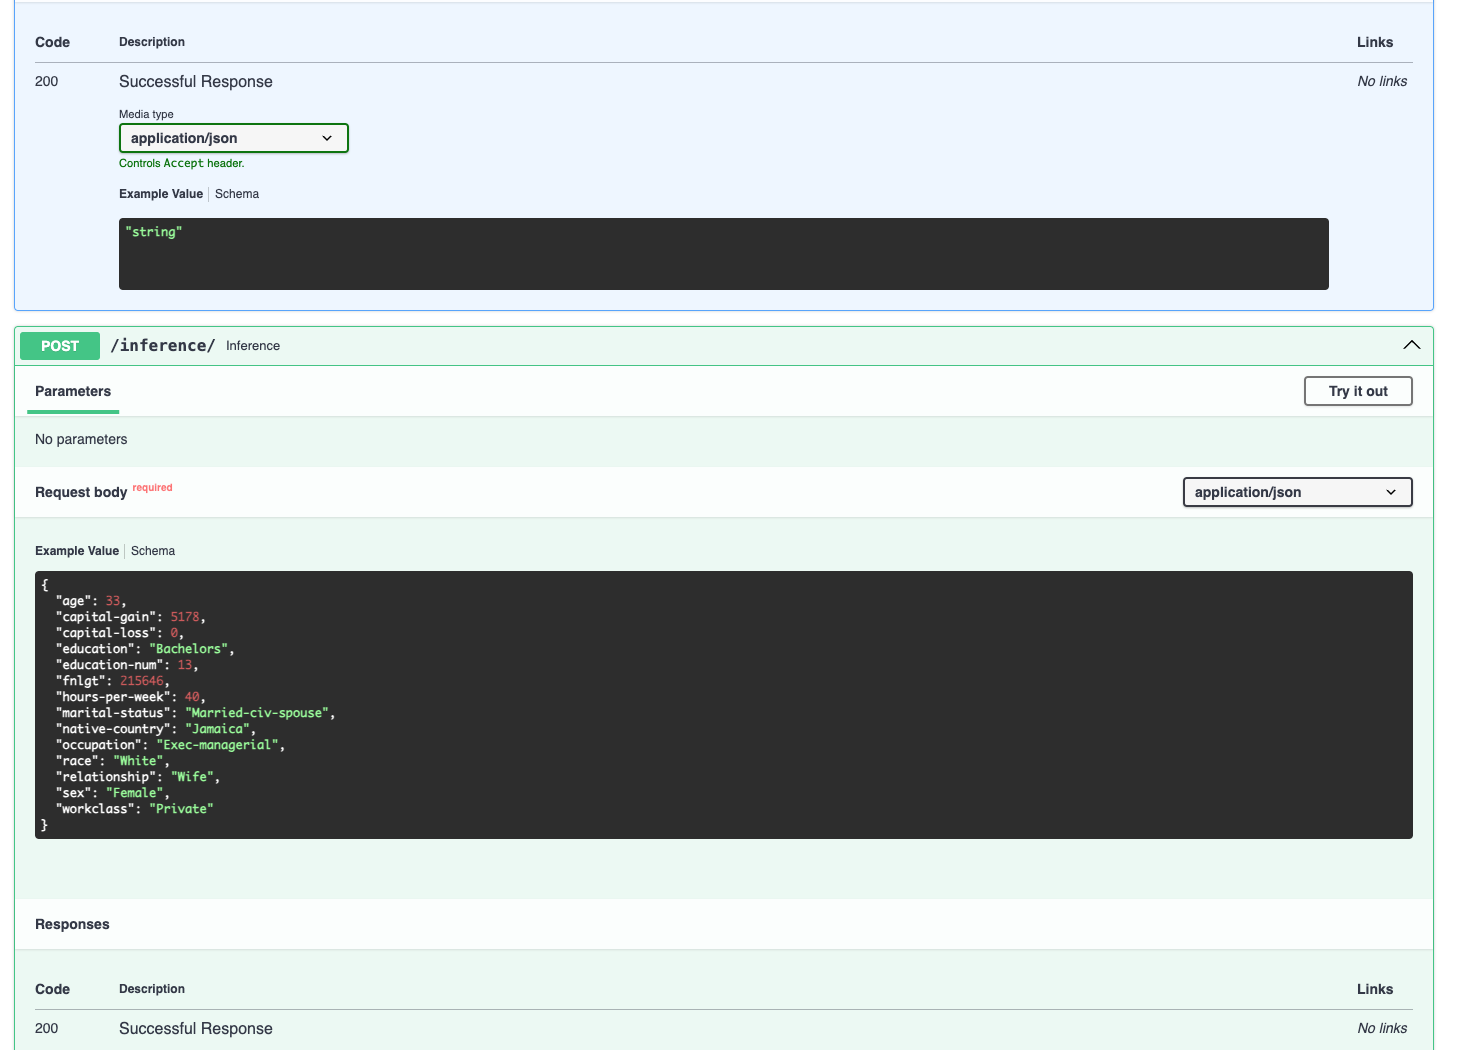
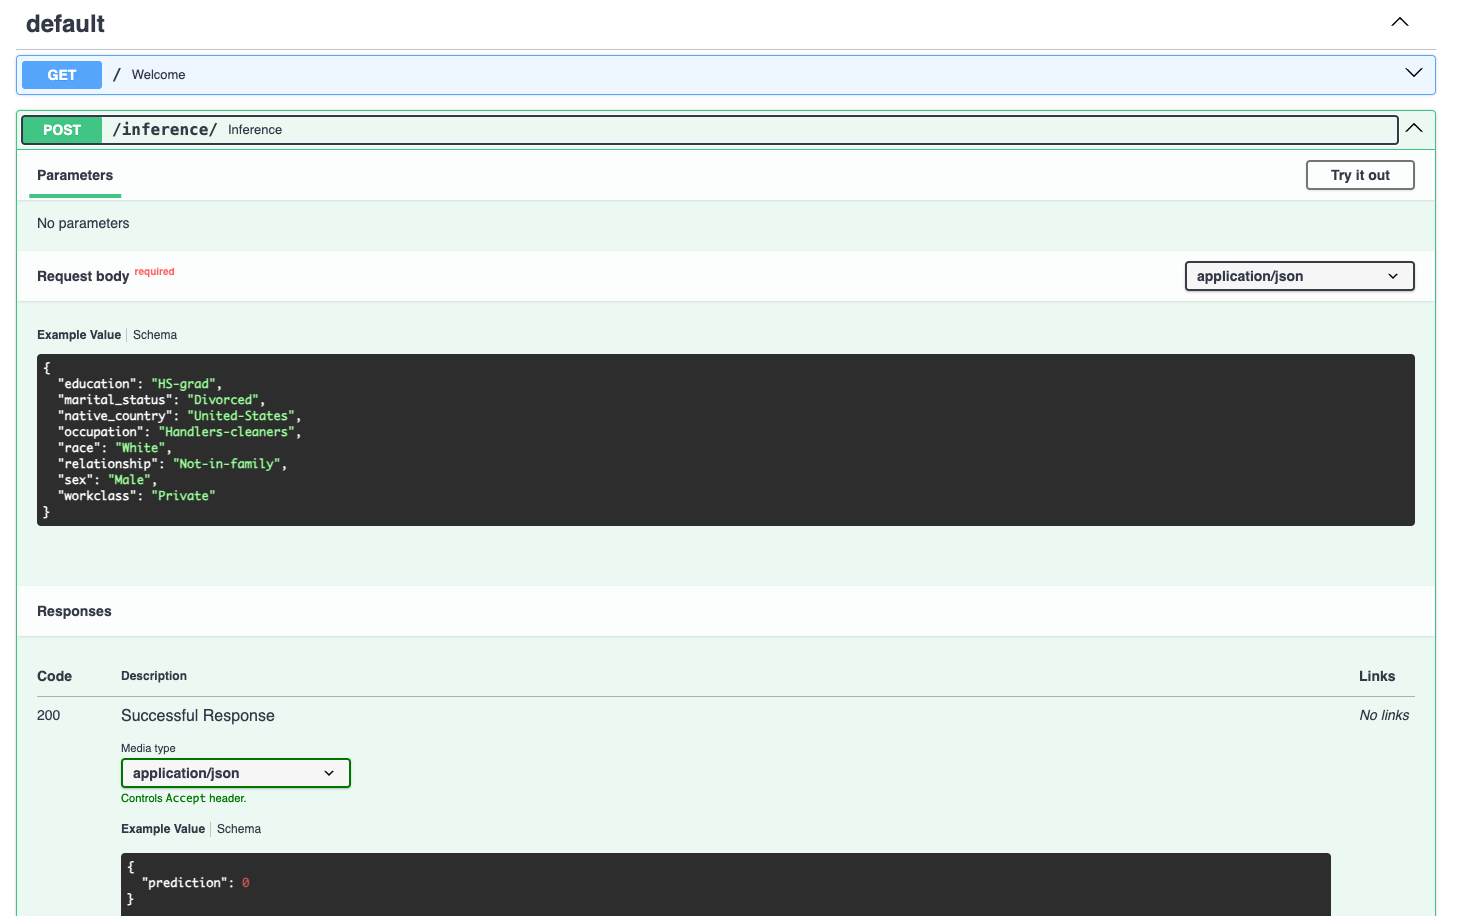
add screenshots and API test

diff --git a/tests/tests.py b/tests/tests.py
@@ -121,8 +121,8 @@ class PredictionResponse(BaseModel):
 
 
 def test_POST_inference_endpoint_successful():
-    # Define test input data
-    input_data = {        
+    # Define test input data for a 0 response
+    input_data_0 = {        
             "workclass": "Private",
             "education": "HS-grad",
             "marital_status": "Divorced",
@@ -132,17 +132,37 @@ def test_POST_inference_endpoint_successful():
             "sex": "Male",
             "native_country": "United-States" #Removed ,       
     }
-
-    # Send a POST request to the "/inference" endpoint with the test input data
-    response = client.post("/inference/", json=input_data)
+    
+    # Define test input data for a 1 response
+    input_data_1 = {        
+            "workclass": "Private",
+            "education": "Masters",
+            "marital_status": "Never-married",
+            "occupation": "Prof-specialty",
+            "relationship": "Not-in-family",
+            "race": "White",
+            "sex": "Female",
+            "native_country": "United-States" #Removed ,       
+    }
+    
+    # Send a POST request to the "/inference" endpoint with the "0" test input data
+    response_0 = client.post("/inference/", json=input_data_0)
+    
+    # Send a POST request to the "/inference" endpoint with the "1" test input data
+    response_1 = client.post("/inference/", json=input_data_1)
     
     # Assert that the response status code is 200
-    assert response.status_code == 200
+    assert response_0.status_code == 200
 
-    # Assert that the response contains a "prediction" key
-    response_data = response.json()
+    # Assert that the response contains a "prediction" key and 0 answer
+    response_data = response_0.json()
     assert "prediction" in response_data
     assert 0 == response_data["prediction"]
+    
+    # Assert that the response contains a "prediction" key and 1 answer
+    response_data = response_1.json()
+    assert "prediction" in response_data
+    assert 1 == response_data["prediction"]
 
 
 def test_POST_inference_endpoint_error_handling():

diff --git a/call_endpoint.py b/call_endpoint.py
@@ -1,0 +1,32 @@
+import requests
+
+# Define correct URL
+api_url = "https://ml-web-deployment.onrender.com/inference/"
+
+# Define the data to send in the POST request
+data = {
+  "workclass": "Private",
+  "education": "HS-grad",
+  "marital_status": "Divorced",
+  "occupation": "Handlers-cleaners",
+  "relationship": "Not-in-family",
+  "race": "White",
+  "sex": "Male",
+  "native_country": "United-States"
+}
+
+# Send a POST request to the API
+response = requests.post(api_url, json=data)
+
+# Check the status code
+status_code = response.status_code
+
+# Check if the request was successful
+if response.status_code == 200:
+    result = response.json()
+else:
+    result = None
+
+# Print the status code and result
+print("Status Code:", status_code)
+print("Result:", result)

diff --git a/README.md b/README.md
@@ -78,12 +78,15 @@ This endpoint loads the trained model and provides predictions. To receive a Cod
   "sex": "Male",
   "native_country": "United-States"
 }
+```
 
 The prediction is given back to the requestor in the following format:
 ```json
 {
    "prediction": 0.0
 }
+```
+You can call a currently running endpoint on Render with the code in the `call_endpoint.py` file
 
 ## Contributing
 Feel free to contribute to this project. You can fork the repository, make your changes, and create a pull request. Please ensure your code follows the established style guide.
